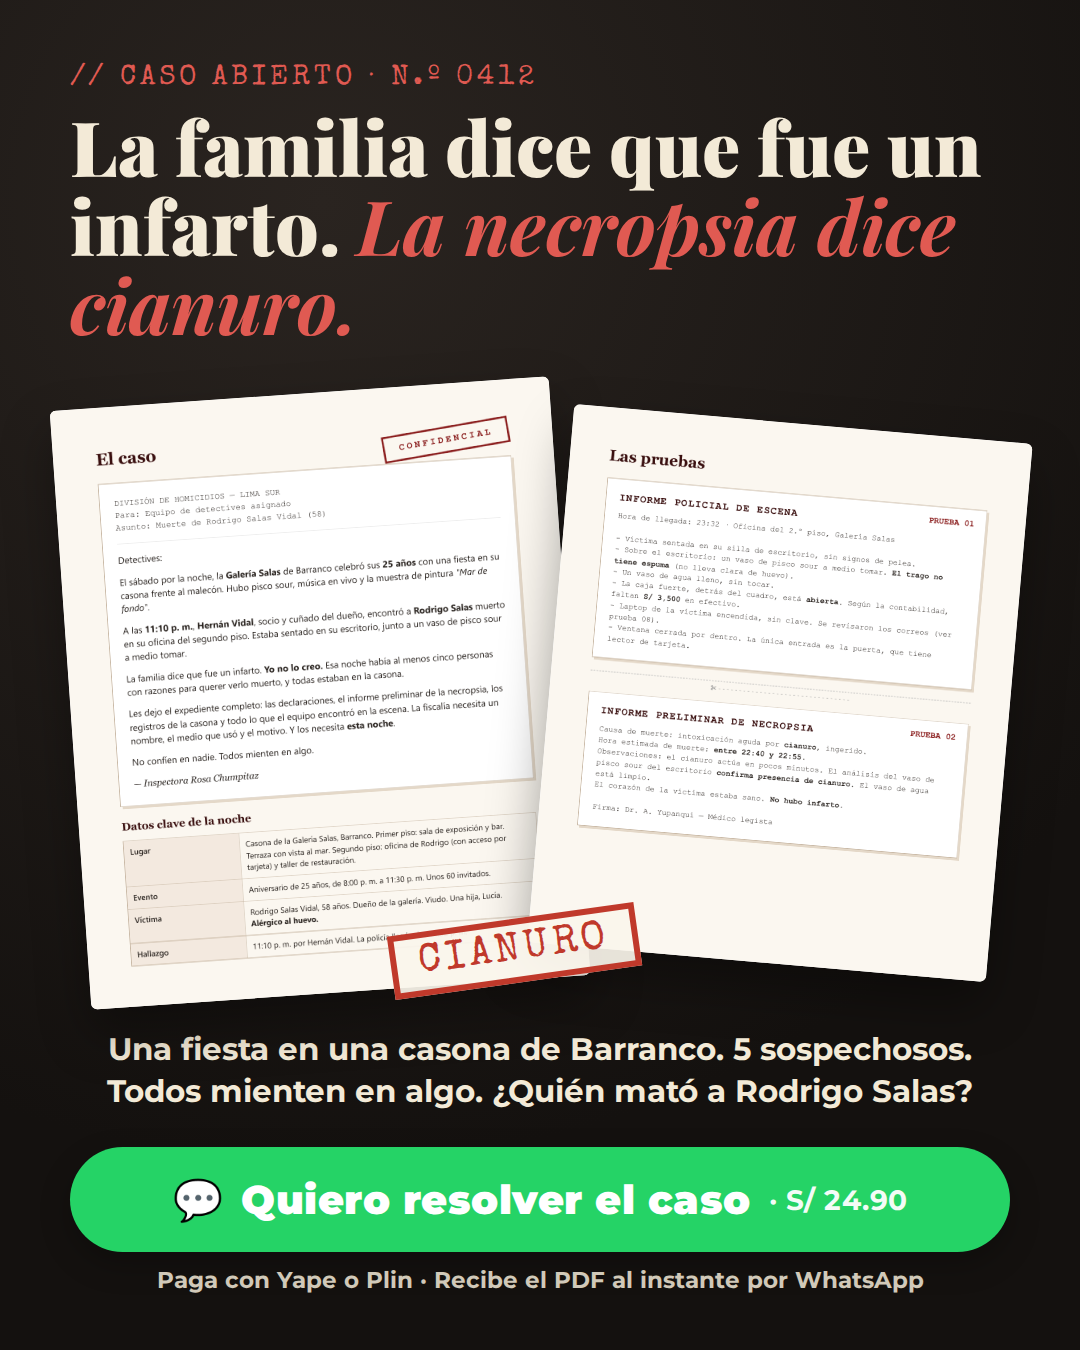
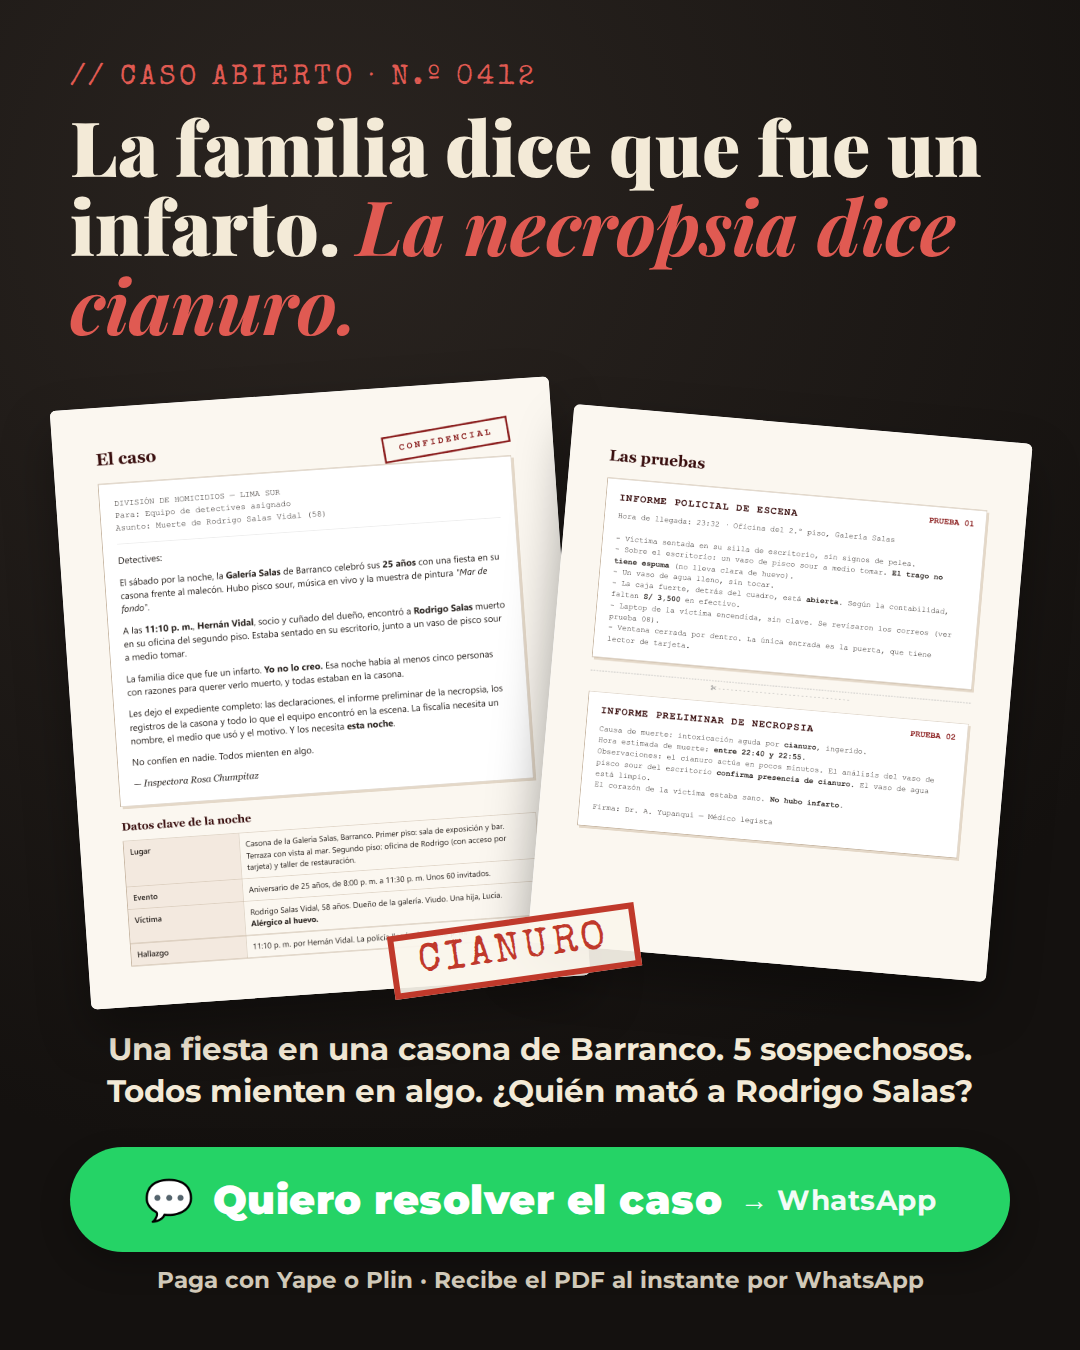
Quitar el precio de las imágenes de los anuncios
Claude-Session: https://claude.ai/code/session_01Qnip2Rhhfg1o4kKUGFqmBp

Changed region(s): [[0.1222, 0.8711, 0.8556, 0.9022]]

diff --git a/anuncios/generar.js b/anuncios/generar.js
@@ -4,9 +4,6 @@
 const fs = require('fs');
 const path = require('path');
 
-// Cambia aquí los precios y se actualizan en todos los anuncios
-const PRECIO = { juego: 'S/ 24.90', kit: 'S/ 29.90', planner: 'S/ 29.90' };
-
 const OUT = path.join(__dirname, 'png');
 const HTML = path.join(__dirname, 'html');
 fs.mkdirSync(OUT, { recursive: true });
@@ -68,7 +65,7 @@ const juego = [
   </div>
   <div style="font-size:31px;font-weight:700;text-align:center;margin-top:26px;line-height:1.35">Una fiesta en una casona de Barranco. 5 sospechosos.<br>Todos mienten en algo. ¿Quién mató a Rodrigo Salas?</div>
   <div class="spacer"></div>
-  ${cta('Quiero resolver el caso', '· ' + PRECIO.juego)}
+  ${cta('Quiero resolver el caso', '→ WhatsApp')}
   ${pay('#f3ead7')}
 </div>`,
   },
@@ -91,7 +88,7 @@ const juego = [
   </div>
   <div class="spacer"></div>
   <div class="facts" style="justify-content:center;margin-bottom:26px"><span>👥 1 a 6 detectives</span><span>⏱ 90–120 min</span><span>🔞 +16 años</span></div>
-  ${cta('Pedir nuestro caso', '· ' + PRECIO.juego)}
+  ${cta('Pedir nuestro caso', '→ WhatsApp')}
   ${pay('#f3ead7')}
 </div>`,
   },
@@ -112,7 +109,7 @@ const juego = [
     <ul class="check" style="font-size:27px;font-weight:700"><li>Hoja de acusación</li><li>Pistas de ayuda si se traban</li><li>Solución en archivo aparte</li></ul>
   </div>
   <div class="spacer"></div>
-  ${cta('Lo quiero', '· ' + PRECIO.juego)}
+  ${cta('Lo quiero', '→ WhatsApp')}
   ${pay('#f3ead7', 'Se imprime a color o en blanco y negro · 1 a 6 detectives')}
 </div>`,
   },
@@ -128,9 +125,9 @@ const juego = [
         <div style="background:#075e54;color:#fff;padding:24px 22px;font-weight:700;font-size:22px">🔎 Expediente Barranco</div>
         <div style="padding:16px;display:flex;flex-direction:column;gap:12px;font-size:19px;color:#111">
           <div style="align-self:flex-end;background:#dcf8c6;padding:11px 15px;border-radius:14px;max-width:85%">Hola! Quiero el caso para jugar hoy 🙌</div>
-          <div style="background:#fff;padding:11px 15px;border-radius:14px;max-width:85%">¡Hola! Son ${PRECIO.juego}. Te paso el Yape 👇</div>
+          <div style="background:#fff;padding:11px 15px;border-radius:14px;max-width:85%">¡Hola, detective! Te paso el Yape 👇</div>
           <div style="align-self:flex-end;background:#dcf8c6;padding:11px 15px;border-radius:14px;max-width:85%">Listo, ya yapeé ✅</div>
-          <div style="background:#fff;padding:11px 15px;border-radius:14px;max-width:85%">¡Gracias, detective! Aquí tu expediente 🕵</div>
+          <div style="background:#fff;padding:11px 15px;border-radius:14px;max-width:85%">¡Gracias! Aquí tu expediente 🕵</div>
           <div style="background:#fff;padding:8px;border-radius:14px;width:250px">
             ${pg('juego-01.png', 234, 150, { top: 0.32, style: 'box-shadow:none;border-radius:8px' })}
             <div style="display:flex;gap:8px;align-items:center;margin-top:8px"><span style="background:#e05a52;color:#fff;font-weight:900;padding:6px 7px;border-radius:5px;font-size:14px">PDF</span><span style="font-weight:700;font-size:16px">Expediente_Barranco.pdf</span></div>
@@ -183,7 +180,7 @@ const kit = [
   </div>
   <div class="spacer"></div>
   <div style="text-align:center;font-family:'Playfair Display';font-style:italic;font-size:40px;margin-bottom:26px">Juego, no tarea. Y con lo que hay en la cocina.</div>
-  ${cta('Quiero el kit', '· ' + PRECIO.kit)}
+  ${cta('Quiero el kit', '→ WhatsApp')}
   ${pay('#1f4e46')}
 </div>`,
   },
@@ -202,7 +199,7 @@ const kit = [
   </div>
   <div style="text-align:center;font-size:28px;font-weight:700;margin-top:26px">Incluye registro semanal para anotar qué le gusta y qué le cuesta,<br>y llevarlo a su profesor o terapeuta.</div>
   <div class="spacer"></div>
-  ${cta('Quiero el plan', '· ' + PRECIO.kit)}
+  ${cta('Quiero el plan', '→ WhatsApp')}
   <div class="disc">Material de juego y estimulación. No reemplaza la evaluación ni la terapia de un profesional.</div>
 </div>`,
   },
@@ -232,7 +229,7 @@ const kit = [
     🎁 <span style="color:#e07a5f">+3 bonos:</span> registro semanal · plan de 4 semanas · kit de calma para la refri
   </div>
   <div class="spacer"></div>
-  ${cta('Pedir el kit', '· ' + PRECIO.kit)}
+  ${cta('Pedir el kit', '→ WhatsApp')}
   ${pay('#1f4e46', 'Para mamás, papás, docentes y terapeutas · PDF listo para imprimir')}
 </div>`,
   },
@@ -250,7 +247,7 @@ const kit = [
   <div style="text-align:center;font-size:28px;font-weight:700;margin-top:30px;line-height:1.4">Sopla la vela · Abrazo de oso · Modo tortuga<br>Agua fría · Empuja la pared · Tararea</div>
   <div style="text-align:center;font-size:26px;font-weight:700;margin-top:18px;opacity:.85">+ 48 actividades sensoriales y motoras para niños de 2 a 8 años</div>
   <div class="spacer"></div>
-  ${cta('Quiero el kit', '· ' + PRECIO.kit)}
+  ${cta('Quiero el kit', '→ WhatsApp')}
   <div class="disc">Material de juego y estimulación. No reemplaza la evaluación ni la terapia de un profesional.</div>
 </div>`,
   },
@@ -284,7 +281,7 @@ const planner = [
   </div>
   <div style="text-align:center;font-family:'Playfair Display';font-style:italic;font-size:42px;margin-top:10px">Todo tu matrimonio organizado en un solo lugar.</div>
   <div class="spacer"></div>
-  ${cta('Quiero mi planner', '· ' + PRECIO.planner)}
+  ${cta('Quiero mi planner', '→ WhatsApp')}
   ${pay('#7a6a62')}
 </div>`,
   },
@@ -305,7 +302,7 @@ const planner = [
   </div>
   <div class="spacer"></div>
   <div style="text-align:center;font-size:28px;font-weight:700;margin-bottom:26px">Checklist · Presupuesto · Trámites · Invitados · Proveedores · Mesas</div>
-  ${cta('Quiero mi planner', '· ' + PRECIO.planner)}
+  ${cta('Quiero mi planner', '→ WhatsApp')}
   ${pay('#7a6a62')}
 </div>`,
   },
@@ -321,7 +318,7 @@ const planner = [
   </div>
   <div style="text-align:center;font-size:28px;font-weight:700;margin-top:52px">Marca, avanza y deja de preguntarte “¿me estoy olvidando de algo?”</div>
   <div class="spacer"></div>
-  ${cta('Quiero mi checklist', '· ' + PRECIO.planner)}
+  ${cta('Quiero mi checklist', '→ WhatsApp')}
   ${pay('#7a6a62', 'PDF imprimible · Recíbelo al instante por WhatsApp')}
 </div>`,
   },
@@ -338,7 +335,7 @@ const planner = [
   </div>
   <div style="text-align:center;font-size:28px;font-weight:700;margin-top:30px">Presupuesto · costo real · adelanto · saldo · fecha de pago<br><span style="opacity:.8">y un 6 % reservado para imprevistos</span></div>
   <div class="spacer"></div>
-  ${cta('Quiero mi planner', '· ' + PRECIO.planner)}
+  ${cta('Quiero mi planner', '→ WhatsApp')}
   ${pay('#e9d8cc')}
 </div>`,
   },

diff --git a/anuncios/html/juego-4-como-funciona.html b/anuncios/html/juego-4-como-funciona.html
@@ -32,9 +32,9 @@ body{width:1080px;height:1350px;overflow:hidden;font-family:'Montserrat',sans-se
         <div style="background:#075e54;color:#fff;padding:24px 22px;font-weight:700;font-size:22px">🔎 Expediente Barranco</div>
         <div style="padding:16px;display:flex;flex-direction:column;gap:12px;font-size:19px;color:#111">
           <div style="align-self:flex-end;background:#dcf8c6;padding:11px 15px;border-radius:14px;max-width:85%">Hola! Quiero el caso para jugar hoy 🙌</div>
-          <div style="background:#fff;padding:11px 15px;border-radius:14px;max-width:85%">¡Hola! Son S/ 24.90. Te paso el Yape 👇</div>
+          <div style="background:#fff;padding:11px 15px;border-radius:14px;max-width:85%">¡Hola, detective! Te paso el Yape 👇</div>
           <div style="align-self:flex-end;background:#dcf8c6;padding:11px 15px;border-radius:14px;max-width:85%">Listo, ya yapeé ✅</div>
-          <div style="background:#fff;padding:11px 15px;border-radius:14px;max-width:85%">¡Gracias, detective! Aquí tu expediente 🕵</div>
+          <div style="background:#fff;padding:11px 15px;border-radius:14px;max-width:85%">¡Gracias! Aquí tu expediente 🕵</div>
           <div style="background:#fff;padding:8px;border-radius:14px;width:250px">
             <div class="pg" style="width:234px;height:150px;transform:rotate(0deg);box-shadow:none;border-radius:8px"><img src="../producto/juego-01.png" style="width:234px;margin-top:-106px"></div>
             <div style="display:flex;gap:8px;align-items:center;margin-top:8px"><span style="background:#e05a52;color:#fff;font-weight:900;padding:6px 7px;border-radius:5px;font-size:14px">PDF</span><span style="font-weight:700;font-size:16px">Expediente_Barranco.pdf</span></div>

diff --git a/anuncios/html/kit-4-kit-de-calma.html b/anuncios/html/kit-4-kit-de-calma.html
@@ -35,6 +35,6 @@ body{width:1080px;height:1350px;overflow:hidden;font-family:'Montserrat',sans-se
   <div style="text-align:center;font-size:28px;font-weight:700;margin-top:30px;line-height:1.4">Sopla la vela · Abrazo de oso · Modo tortuga<br>Agua fría · Empuja la pared · Tararea</div>
   <div style="text-align:center;font-size:26px;font-weight:700;margin-top:18px;opacity:.85">+ 48 actividades sensoriales y motoras para niños de 2 a 8 años</div>
   <div class="spacer"></div>
-  <div class="cta"><span>💬</span><span>Quiero el kit</span><small>· S/ 29.90</small></div>
+  <div class="cta"><span>💬</span><span>Quiero el kit</span><small>→ WhatsApp</small></div>
   <div class="disc">Material de juego y estimulación. No reemplaza la evaluación ni la terapia de un profesional.</div>
 </div></body></html>

diff --git a/anuncios/html/juego-1-el-caso.html b/anuncios/html/juego-1-el-caso.html
@@ -33,6 +33,6 @@ body{width:1080px;height:1350px;overflow:hidden;font-family:'Montserrat',sans-se
   </div>
   <div style="font-size:31px;font-weight:700;text-align:center;margin-top:26px;line-height:1.35">Una fiesta en una casona de Barranco. 5 sospechosos.<br>Todos mienten en algo. ¿Quién mató a Rodrigo Salas?</div>
   <div class="spacer"></div>
-  <div class="cta"><span>💬</span><span>Quiero resolver el caso</span><small>· S/ 24.90</small></div>
+  <div class="cta"><span>💬</span><span>Quiero resolver el caso</span><small>→ WhatsApp</small></div>
   <div class="pay" style="color:#f3ead7">Paga con Yape o Plin · Recibe el PDF al instante por WhatsApp</div>
 </div></body></html>

diff --git a/anuncios/html/planner-4-presupuesto.html b/anuncios/html/planner-4-presupuesto.html
@@ -32,6 +32,6 @@ body{width:1080px;height:1350px;overflow:hidden;font-family:'Montserrat',sans-se
   </div>
   <div style="text-align:center;font-size:28px;font-weight:700;margin-top:30px">Presupuesto · costo real · adelanto · saldo · fecha de pago<br><span style="opacity:.8">y un 6 % reservado para imprevistos</span></div>
   <div class="spacer"></div>
-  <div class="cta"><span>💬</span><span>Quiero mi planner</span><small>· S/ 29.90</small></div>
+  <div class="cta"><span>💬</span><span>Quiero mi planner</span><small>→ WhatsApp</small></div>
   <div class="pay" style="color:#e9d8cc">Paga con Yape o Plin · Recibe el PDF al instante por WhatsApp</div>
 </div></body></html>

diff --git a/anuncios/html/kit-2-plan-4-semanas.html b/anuncios/html/kit-2-plan-4-semanas.html
@@ -36,6 +36,6 @@ body{width:1080px;height:1350px;overflow:hidden;font-family:'Montserrat',sans-se
   </div>
   <div style="text-align:center;font-size:28px;font-weight:700;margin-top:26px">Incluye registro semanal para anotar qué le gusta y qué le cuesta,<br>y llevarlo a su profesor o terapeuta.</div>
   <div class="spacer"></div>
-  <div class="cta"><span>💬</span><span>Quiero el plan</span><small>· S/ 29.90</small></div>
+  <div class="cta"><span>💬</span><span>Quiero el plan</span><small>→ WhatsApp</small></div>
   <div class="disc">Material de juego y estimulación. No reemplaza la evaluación ni la terapia de un profesional.</div>
 </div></body></html>

diff --git a/anuncios/html/juego-2-cita-en-casa.html b/anuncios/html/juego-2-cita-en-casa.html
@@ -39,6 +39,6 @@ body{width:1080px;height:1350px;overflow:hidden;font-family:'Montserrat',sans-se
   </div>
   <div class="spacer"></div>
   <div class="facts" style="justify-content:center;margin-bottom:26px"><span>👥 1 a 6 detectives</span><span>⏱ 90–120 min</span><span>🔞 +16 años</span></div>
-  <div class="cta"><span>💬</span><span>Pedir nuestro caso</span><small>· S/ 24.90</small></div>
+  <div class="cta"><span>💬</span><span>Pedir nuestro caso</span><small>→ WhatsApp</small></div>
   <div class="pay" style="color:#f3ead7">Paga con Yape o Plin · Recibe el PDF al instante por WhatsApp</div>
 </div></body></html>

diff --git a/anuncios/html/planner-1-abrumada.html b/anuncios/html/planner-1-abrumada.html
@@ -35,6 +35,6 @@ body{width:1080px;height:1350px;overflow:hidden;font-family:'Montserrat',sans-se
   </div>
   <div style="text-align:center;font-family:'Playfair Display';font-style:italic;font-size:42px;margin-top:10px">Todo tu matrimonio organizado en un solo lugar.</div>
   <div class="spacer"></div>
-  <div class="cta"><span>💬</span><span>Quiero mi planner</span><small>· S/ 29.90</small></div>
+  <div class="cta"><span>💬</span><span>Quiero mi planner</span><small>→ WhatsApp</small></div>
   <div class="pay" style="color:#7a6a62">Paga con Yape o Plin · Recibe el PDF al instante por WhatsApp</div>
 </div></body></html>

diff --git a/anuncios/html/planner-2-hecho-para-peru.html b/anuncios/html/planner-2-hecho-para-peru.html
@@ -36,6 +36,6 @@ body{width:1080px;height:1350px;overflow:hidden;font-family:'Montserrat',sans-se
   </div>
   <div class="spacer"></div>
   <div style="text-align:center;font-size:28px;font-weight:700;margin-bottom:26px">Checklist · Presupuesto · Trámites · Invitados · Proveedores · Mesas</div>
-  <div class="cta"><span>💬</span><span>Quiero mi planner</span><small>· S/ 29.90</small></div>
+  <div class="cta"><span>💬</span><span>Quiero mi planner</span><small>→ WhatsApp</small></div>
   <div class="pay" style="color:#7a6a62">Paga con Yape o Plin · Recibe el PDF al instante por WhatsApp</div>
 </div></body></html>

diff --git a/anuncios/html/kit-1-materiales-caseros.html b/anuncios/html/kit-1-materiales-caseros.html
@@ -38,6 +38,6 @@ body{width:1080px;height:1350px;overflow:hidden;font-family:'Montserrat',sans-se
   </div>
   <div class="spacer"></div>
   <div style="text-align:center;font-family:'Playfair Display';font-style:italic;font-size:40px;margin-bottom:26px">Juego, no tarea. Y con lo que hay en la cocina.</div>
-  <div class="cta"><span>💬</span><span>Quiero el kit</span><small>· S/ 29.90</small></div>
+  <div class="cta"><span>💬</span><span>Quiero el kit</span><small>→ WhatsApp</small></div>
   <div class="pay" style="color:#1f4e46">Paga con Yape o Plin · Recibe el PDF al instante por WhatsApp</div>
 </div></body></html>

diff --git a/anuncios/html/planner-3-checklist.html b/anuncios/html/planner-3-checklist.html
@@ -31,6 +31,6 @@ body{width:1080px;height:1350px;overflow:hidden;font-family:'Montserrat',sans-se
   </div>
   <div style="text-align:center;font-size:28px;font-weight:700;margin-top:52px">Marca, avanza y deja de preguntarte “¿me estoy olvidando de algo?”</div>
   <div class="spacer"></div>
-  <div class="cta"><span>💬</span><span>Quiero mi checklist</span><small>· S/ 29.90</small></div>
+  <div class="cta"><span>💬</span><span>Quiero mi checklist</span><small>→ WhatsApp</small></div>
   <div class="pay" style="color:#7a6a62">PDF imprimible · Recíbelo al instante por WhatsApp</div>
 </div></body></html>

diff --git a/anuncios/html/juego-3-que-incluye.html b/anuncios/html/juego-3-que-incluye.html
@@ -37,6 +37,6 @@ body{width:1080px;height:1350px;overflow:hidden;font-family:'Montserrat',sans-se
     <ul class="check" style="font-size:27px;font-weight:700"><li>Hoja de acusación</li><li>Pistas de ayuda si se traban</li><li>Solución en archivo aparte</li></ul>
   </div>
   <div class="spacer"></div>
-  <div class="cta"><span>💬</span><span>Lo quiero</span><small>· S/ 24.90</small></div>
+  <div class="cta"><span>💬</span><span>Lo quiero</span><small>→ WhatsApp</small></div>
   <div class="pay" style="color:#f3ead7">Se imprime a color o en blanco y negro · 1 a 6 detectives</div>
 </div></body></html>
